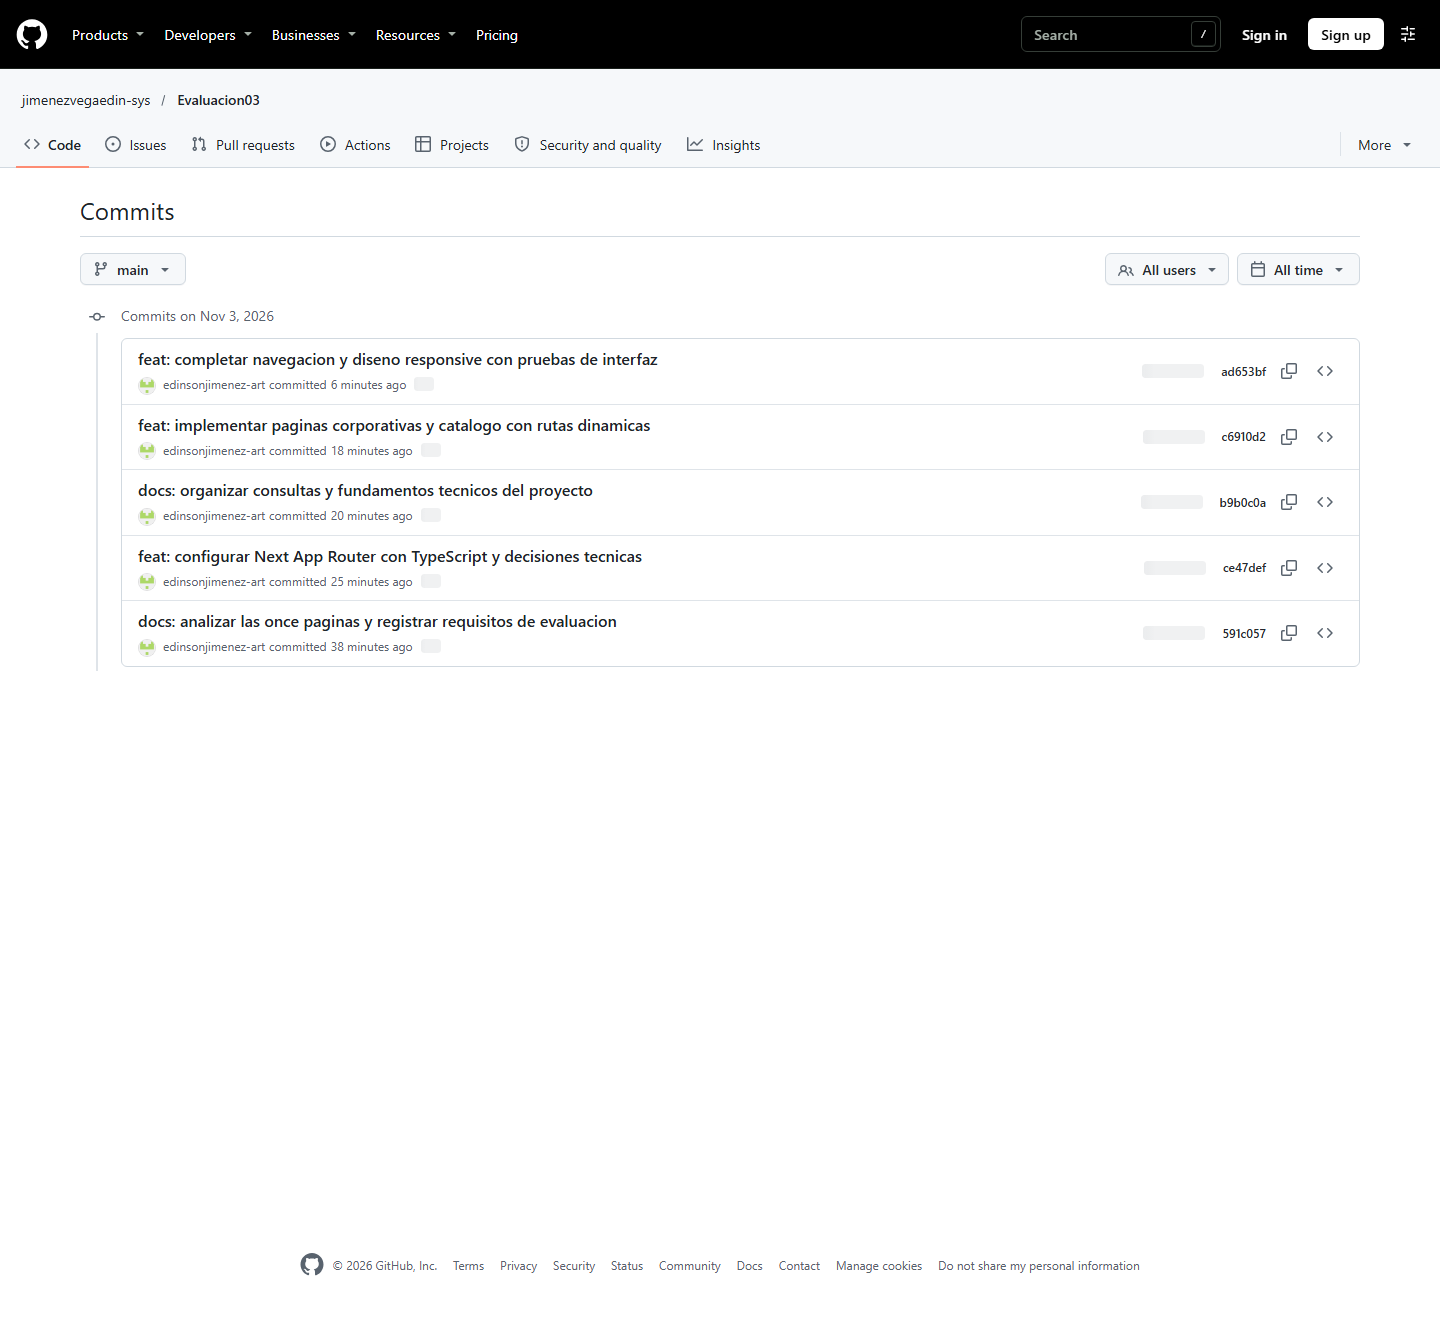
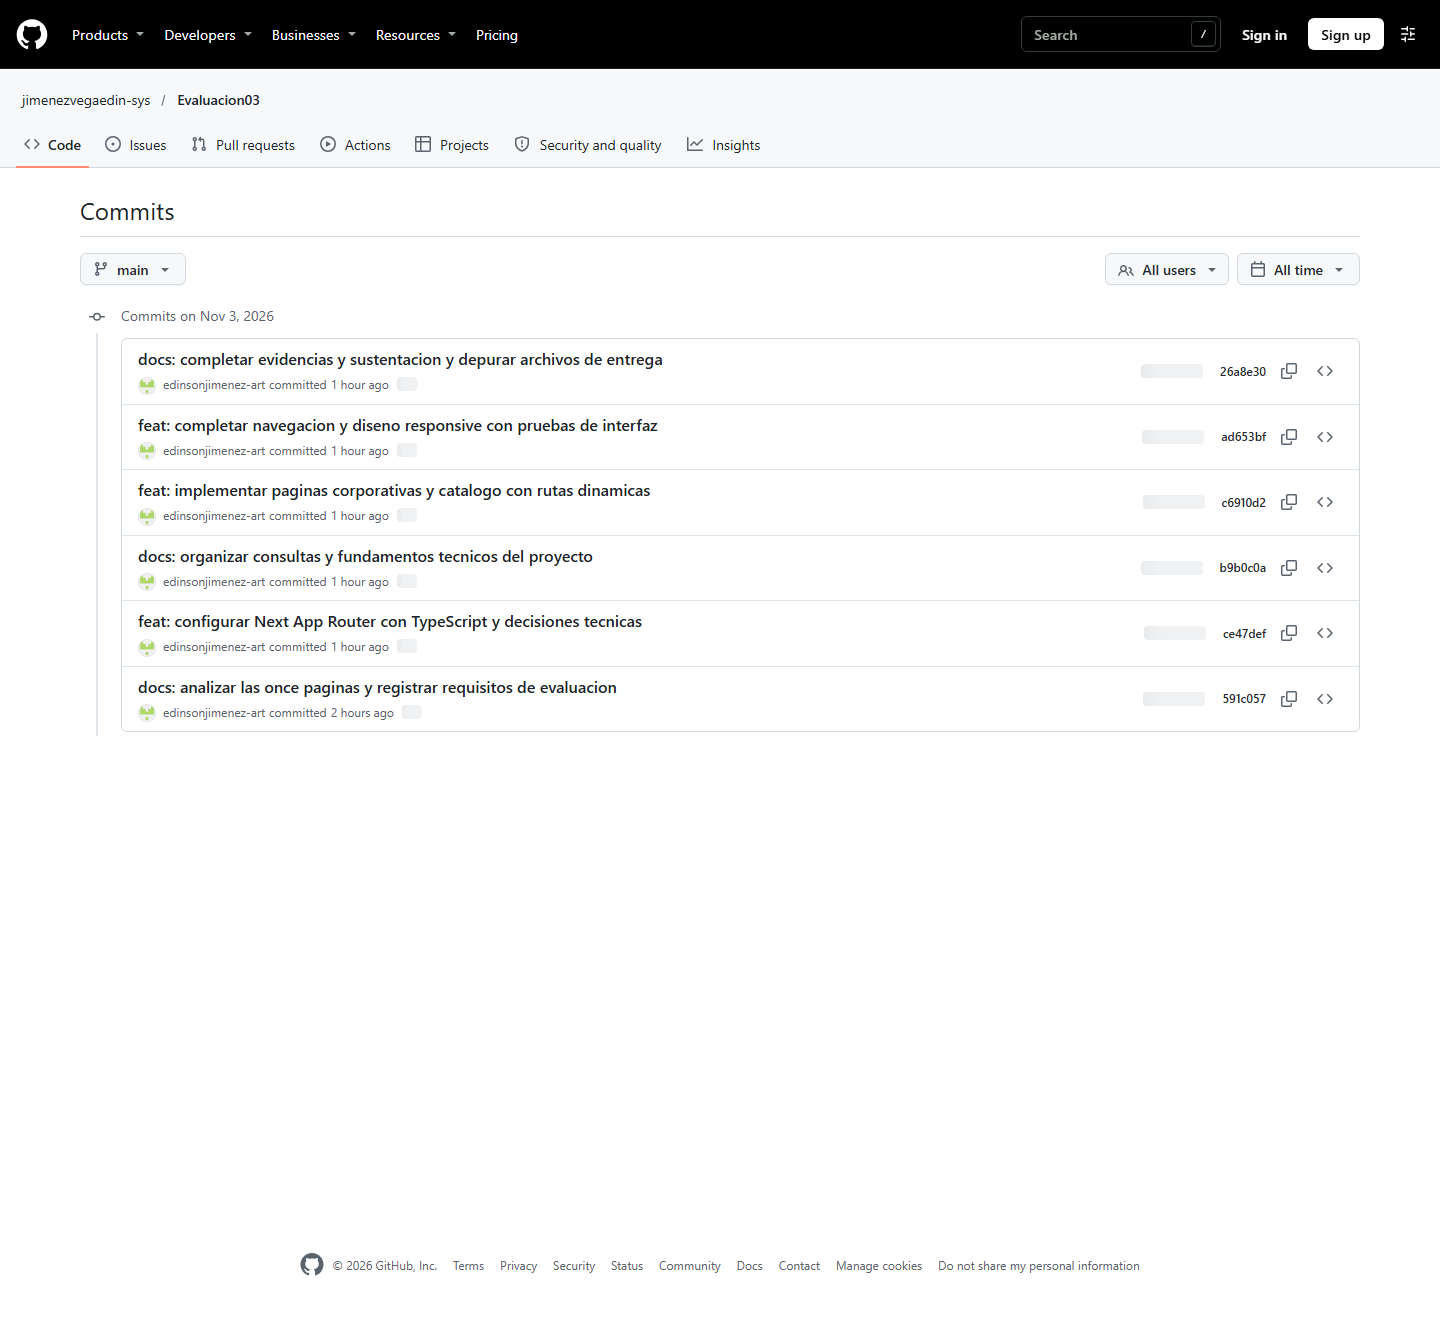
docs: cerrar revision final y actualizar historial publicado

diff --git a/INFORME_FINAL.md b/INFORME_FINAL.md
@@ -125,7 +125,7 @@ Auditoría de entrega: 80 archivos, 14 capturas PNG, enlaces Markdown locales co
 - `inicio-768.png`, `productos-768.png`.
 - `inicio-1280.png`, `productos-1280.png`.
 - `nosotros-1280.png`, `servicios-1280.png`, `marcas-1280.png`, `contacto-1280.png`.
-- `github-commits.png`: historial real con cinco commits visibles hasta `ad653bf`.
+- `github-commits.png`: historial real con seis commits visibles hasta `26a8e30`.
 
 ## Commits publicados y comprobados
 
@@ -136,8 +136,9 @@ Auditoría de entrega: 80 archivos, 14 capturas PNG, enlaces Markdown locales co
 | `b9b0c0a` | Organización de la documentación técnica. |
 | `c6910d2` | Rutas, metadata, datos y catálogo dinámico; pruebas de URLs. |
 | `ad653bf` | Navegación, diseño responsive, componentes y pruebas de interfaz. |
+| `26a8e30` | Evidencias de build/Network/GitHub, guía de sustentación, revisión y depuración de la entrega. |
 
-Cada uno se publicó al terminar su etapa y se contrastó el hash local con `refs/heads/main` del remoto. El historial completo y los commits de cierre están en [GitHub](https://github.com/jimenezvegaedin-sys/Evaluacion03/commits/main/).
+Cada uno se publicó al terminar su etapa y se contrastó el hash local con `refs/heads/main` del remoto. El historial completo, incluido el commit de cierre de este informe, está en [GitHub](https://github.com/jimenezvegaedin-sys/Evaluacion03/commits/main/).
 
 ## Estado del despliegue
 

diff --git a/evidencias/README.md b/evidencias/README.md
@@ -27,7 +27,7 @@ Para adjuntar además una captura desde VS Code: abrir la carpeta, abrir Termina
 
 ## Historial de GitHub
 
-`github-commits.png`: captura directa de https://github.com/jimenezvegaedin-sys/Evaluacion03/commits/main/ en Chromium. Muestra cinco commits progresivos, hasta `ad653bf`, publicados en ese momento. Los commits posteriores se consultan en el historial en línea.
+`github-commits.png`: captura directa de https://github.com/jimenezvegaedin-sys/Evaluacion03/commits/main/ en Chromium. Muestra seis commits progresivos, hasta `26a8e30`, publicados en ese momento. El commit de cierre de este informe se consulta en el historial en línea.
 
 ## Comprobaciones
 
